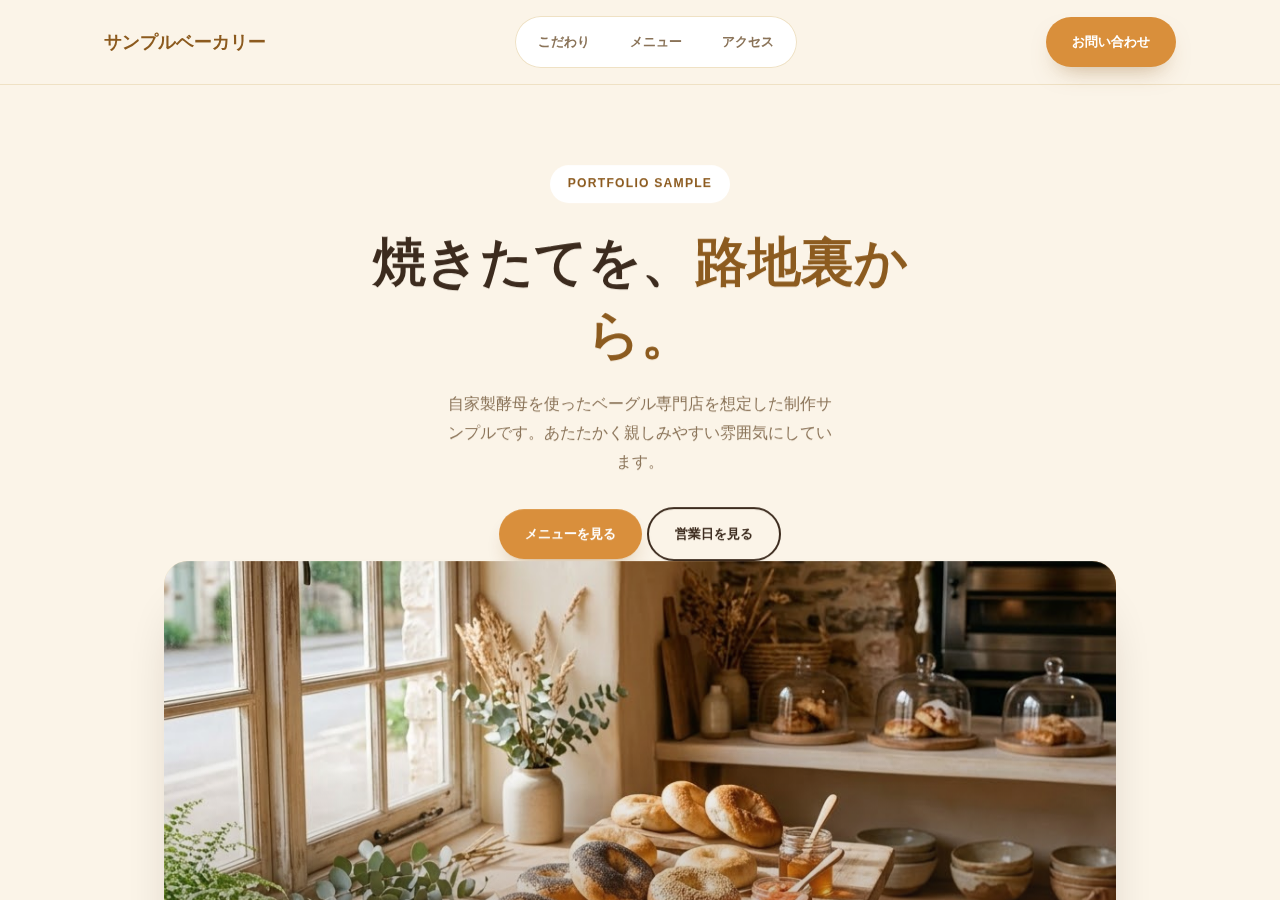
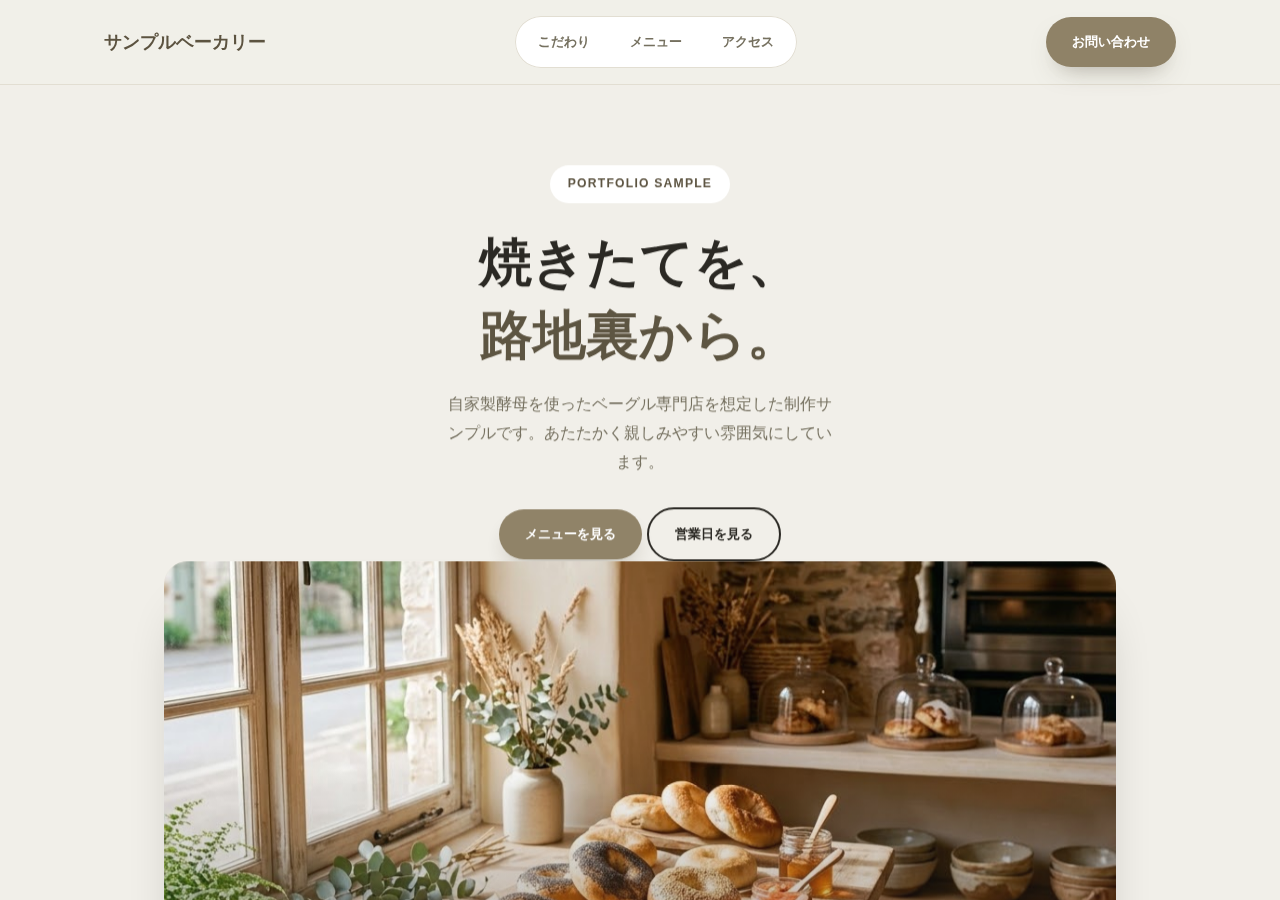
Fix headline wrap and recolor bakery to stone/slate; fix cursor disappearing on portfolio page

diff --git a/demo-bakery/index.html b/demo-bakery/index.html
@@ -10,17 +10,17 @@
 <link href="https://fonts.googleapis.com/css2?family=Zen+Maru+Gothic:wght@500;700;900&family=Noto+Sans+JP:wght@400;500;700&display=swap" rel="stylesheet">
 <style>
   :root{
-    --bg:#fbf4e8;
-    --paper:#fffbf2;
-    --ink:#3b2a1d;
-    --ink-soft:#8a7358;
-    --amber:#d98f3b;
-    --amber-text:#8c5a1e;
-    --berry:#b34a63;
-    --berry-text:#8c3049;
-    --matcha:#6f8c4e;
-    --matcha-text:#4f6837;
-    --line:#efe1c4;
+    --bg:#f1efe9;
+    --paper:#ffffff;
+    --ink:#292722;
+    --ink-soft:#75705f;
+    --amber:#8f8267;
+    --amber-text:#5c5340;
+    --berry:#51687c;
+    --berry-text:#374b5c;
+    --matcha:#a3823f;
+    --matcha-text:#785f28;
+    --line:#e2ded2;
   }
   *{box-sizing:border-box;margin:0;padding:0;}
   html,body{overflow-x:hidden;overscroll-behavior-x:none;max-width:100vw;}
@@ -29,22 +29,22 @@
   a{color:inherit;text-decoration:none;}
   .wrap{max-width:1120px;margin:0 auto;padding:0 24px;}
 
-  .ph{position:relative;overflow:hidden;border-radius:24px;background:linear-gradient(150deg,#f3dfae,#d98f3b 55%,#8c5a1e);}
+  .ph{position:relative;overflow:hidden;border-radius:24px;background:linear-gradient(150deg,#e7e2d5,#a89b81 55%,#5c5340);}
   .ph img{position:absolute;inset:0;width:100%;height:100%;object-fit:cover;}
-  .ph::after{content:"";position:absolute;inset:0;background:linear-gradient(0deg,rgba(59,42,29,.38),transparent 55%);}
+  .ph::after{content:"";position:absolute;inset:0;background:linear-gradient(0deg,rgba(41,39,34,.38),transparent 55%);}
   .ph span{position:absolute;left:16px;bottom:14px;font-size:.72rem;color:#fff;z-index:1;}
 
   [data-reveal]{opacity:0;transform:translateY(22px);transition:opacity .7s cubic-bezier(.2,.7,.3,1),transform .7s cubic-bezier(.2,.7,.3,1);}
   [data-reveal].in{opacity:1;transform:translateY(0);}
 
-  header{position:sticky;top:0;z-index:50;background:rgba(251,244,232,.9);backdrop-filter:blur(8px);border-bottom:1px solid var(--line);}
+  header{position:sticky;top:0;z-index:50;background:rgba(241,239,233,.9);backdrop-filter:blur(8px);border-bottom:1px solid var(--line);}
   .top-inner{max-width:1120px;margin:0 auto;padding:16px 24px;display:flex;align-items:center;justify-content:space-between;gap:16px;}
   .logo{font-weight:900;font-size:1.15rem;color:var(--amber-text);}
   nav.pill{display:flex;gap:4px;background:#fff;border-radius:999px;padding:5px;box-shadow:inset 0 0 0 1px var(--line);}
   nav.pill a{font-size:.82rem;font-weight:700;color:var(--ink-soft);padding:9px 18px;border-radius:999px;transition:background .3s,color .3s;}
   nav.pill a:hover{background:var(--bg);color:var(--amber-text);}
   .btn{display:inline-flex;align-items:center;gap:8px;padding:13px 26px;border-radius:999px;font-weight:900;font-size:.84rem;transition:transform .3s cubic-bezier(.2,.7,.3,1),box-shadow .3s,background .3s;}
-  .btn-solid{background:var(--amber);color:#fff;box-shadow:0 12px 24px -12px rgba(140,90,30,.5);}
+  .btn-solid{background:var(--amber);color:#fff;box-shadow:0 12px 24px -12px rgba(92,83,64,.5);}
   .btn-solid:hover{transform:translateY(-3px) rotate(-1deg);background:var(--amber-text);}
   .btn-ghost{border:2px solid var(--ink);color:var(--ink);}
   .btn-ghost:hover{transform:translateY(-3px);background:var(--ink);color:var(--bg);}
@@ -54,11 +54,11 @@
   .hero{padding:80px 0 56px;text-align:center;}
   .hero-inner{max-width:640px;margin:0 auto;}
   .eyebrow{display:inline-block;font-size:.76rem;letter-spacing:.1em;color:var(--amber-text);font-weight:700;background:#fff;padding:8px 18px;border-radius:999px;margin-bottom:22px;}
-  .hero h1{font-size:clamp(2.1rem,5vw,3.3rem);font-weight:900;line-height:1.4;margin-bottom:18px;}
+  .hero h1{font-size:clamp(1.7rem,5vw,3.3rem);font-weight:900;line-height:1.4;margin-bottom:18px;word-break:keep-all;overflow-wrap:break-word;}
   .hero h1 em{font-style:normal;color:var(--amber-text);}
   .hero p{color:var(--ink-soft);max-width:44ch;margin:0 auto 30px;font-size:1rem;}
   .hero-showcase{max-width:1000px;margin:0 auto;}
-  .hero-showcase .ph{aspect-ratio:16/7;box-shadow:0 30px 60px -30px rgba(59,42,29,.35);}
+  .hero-showcase .ph{aspect-ratio:16/7;box-shadow:0 30px 60px -30px rgba(41,39,34,.35);}
 
   .features{padding:100px 0;}
   .sec-head{max-width:560px;margin:0 auto 48px;text-align:center;}
@@ -66,16 +66,16 @@
   .sec-head p{color:var(--ink-soft);font-size:.94rem;}
   .feature-grid{display:grid;grid-template-columns:repeat(3,1fr);gap:22px;}
   .feature-card{background:var(--paper);border-radius:24px;padding:32px 26px;text-align:center;transition:transform .35s cubic-bezier(.2,.7,.3,1),box-shadow .35s;}
-  .feature-card:hover{transform:translateY(-8px) rotate(-.5deg);box-shadow:0 24px 44px -22px rgba(59,42,29,.25);}
+  .feature-card:hover{transform:translateY(-8px) rotate(-.5deg);box-shadow:0 24px 44px -22px rgba(41,39,34,.25);}
   .feature-icon{width:56px;height:56px;border-radius:50%;background:var(--amber);display:flex;align-items:center;justify-content:center;margin:0 auto 18px;}
   .feature-icon.i-berry{background:var(--berry);}
   .feature-icon.i-matcha{background:var(--matcha);}
   .ticket .price.p-berry{color:var(--berry-text);}
   .ticket .price.p-matcha{color:var(--matcha-text);}
-  .ticket.tk-berry{border-color:#e6c3cd;}
-  .ticket.tk-matcha{border-color:#d3ddc4;}
-  .tag-b{color:#f2c9d5;}
-  .tag-m{color:#d7e5c5;}
+  .ticket.tk-berry{border-color:#c3cdd6;}
+  .ticket.tk-matcha{border-color:#e0d3b4;}
+  .tag-b{color:#c7d3dd;}
+  .tag-m{color:#ebdcb8;}
   .feature-icon svg{width:26px;height:26px;stroke:#fff;fill:none;stroke-width:1.8;}
   .feature-card h3{font-family:'Zen Maru Gothic',sans-serif;font-size:1.02rem;font-weight:700;margin-bottom:10px;}
   .feature-card p{font-size:.86rem;color:var(--ink-soft);}
@@ -99,7 +99,7 @@
   .cta-band{padding:0 0 110px;}
   .cta-card{background:var(--amber);color:#fff;border-radius:32px;padding:clamp(44px,6vw,72px);text-align:center;}
   .cta-card h2{font-family:'Zen Maru Gothic',sans-serif;font-size:clamp(1.6rem,3vw,2.2rem);font-weight:900;margin-bottom:16px;}
-  .cta-card p{color:#fdeed3;max-width:44ch;margin:0 auto 30px;font-size:.94rem;}
+  .cta-card p{color:#e8e3d5;max-width:44ch;margin:0 auto 30px;font-size:.94rem;}
   .cta-btns{display:flex;gap:14px;justify-content:center;flex-wrap:wrap;}
   .cta-card .btn-ghost{border-color:#fff;color:#fff;}
   .cta-card .btn-ghost:hover{background:#fff;color:var(--amber-text);}

diff --git a/index.html b/index.html
@@ -36,7 +36,7 @@
   img,.ph{display:block;}
 
   @media (pointer:fine){
-    a,button,.btn{cursor:none;}
+    body,a,button,.btn{cursor:none;}
     .cursor{display:block;}
   }
   .cursor{display:none;position:fixed;top:0;left:0;width:16px;height:16px;border-radius:50%;background:var(--indigo);pointer-events:none;z-index:999;transform:translate(-50%,-50%);transition:width .25s,height .25s,background .25s,opacity .25s;mix-blend-mode:normal;opacity:.85;}
